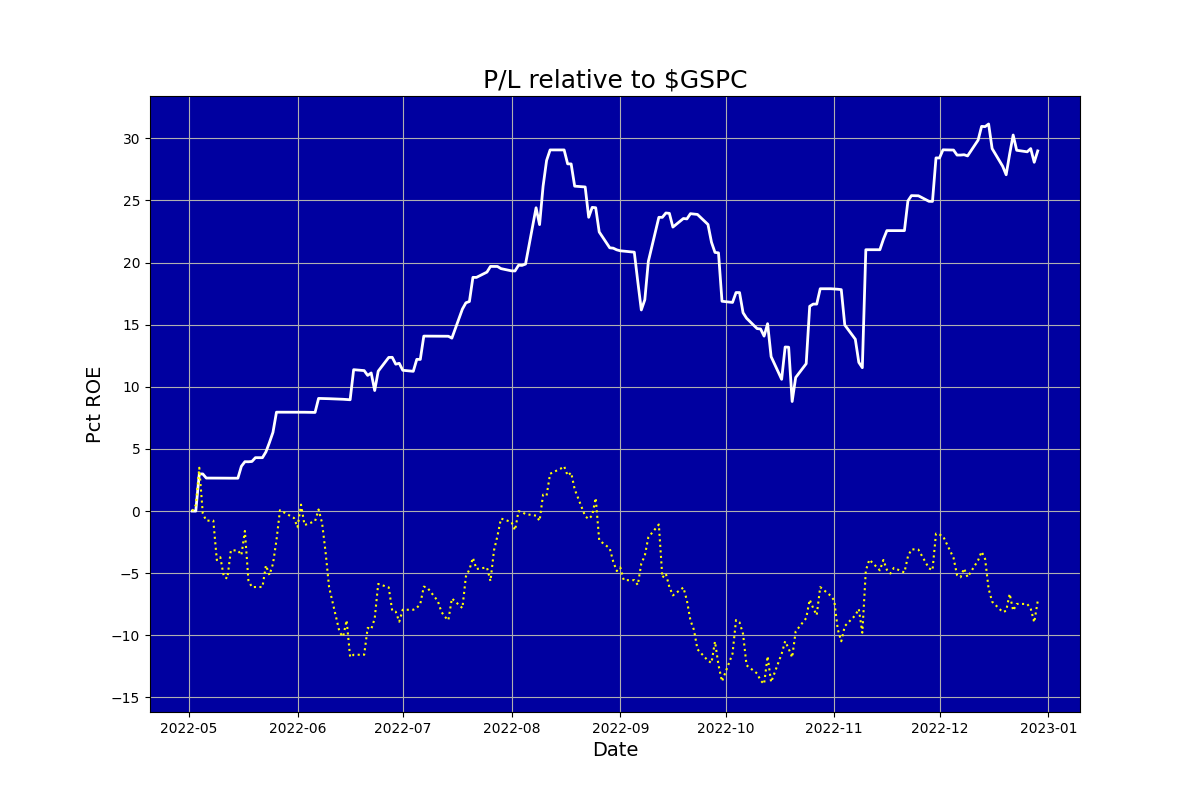
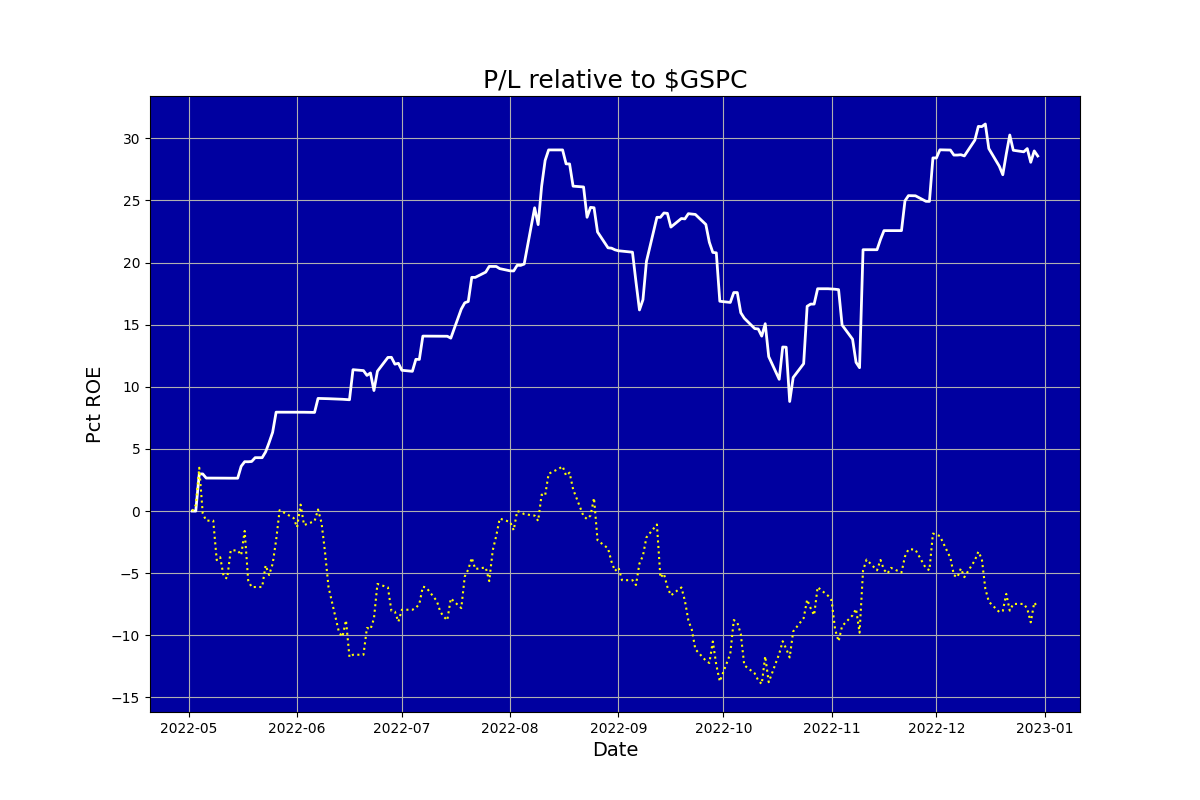
Updated

diff --git a/ig_report.html b/ig_report.html
@@ -1,1 +1,1 @@
-<html><body><center><h1>Auriel (never knowingly overbought)</h1></center><table cols=2><tr><td><img src=ig_pl.png></td><td><table cols=2><tr><td colspan=2><b><br>Snapshot</b></td></tr><tr><td>Last updated:&nbsp;&nbsp;&nbsp;</td><td>2022-12-29 15:57</td></tr><tr><td>Margin:&nbsp;&nbsp;&nbsp;</td><td>0.10</td></tr><tr><td>Cushion:&nbsp;&nbsp;&nbsp;</td><td>-3304.72</td></tr><tr><td>Last closed trade:&nbsp;&nbsp;&nbsp;</td><td>2022-12-29</td></tr><tr><td colspan=2><b><br>Positions</b></td></tr><tr><td>Mean days to new high:&nbsp;&nbsp;&nbsp;</td><td>12.11</td></tr><tr><td colspan=2><b><br>Trades</b></td></tr><tr><td>Traded days:&nbsp;&nbsp;&nbsp;</td><td>176</td></tr><tr><td>Profitable days pct:&nbsp;&nbsp;&nbsp;</td><td>34.66</td></tr><tr><td>Days beat S&P pct:&nbsp;&nbsp;&nbsp;</td><td>58.33</td></tr><tr><td>Profitable months pct:&nbsp;&nbsp;&nbsp;</td><td>87.50</td></tr><tr><td colspan=2><b><br>Performance</b></td></tr><tr><td>Pct median monthly ROE:&nbsp;&nbsp;&nbsp;</td><td>2.53</td></tr><tr><td>Pct annualised ROE:&nbsp;&nbsp;&nbsp;</td><td>38.04</td></tr><tr><td colspan=2><b><br>Risk</b></td></tr><tr><td>Volatility pct:&nbsp;&nbsp;&nbsp;</td><td>19.52</td></tr><tr><td>Benchmark volatility pct:&nbsp;&nbsp;&nbsp;</td><td>25.10</td></tr><tr><td>Sharpe ratio (RFR 5.0%):&nbsp;&nbsp;&nbsp;</td><td>1.79</td></tr><tr><td>Sortino ratio (RFR 5.0%):&nbsp;&nbsp;&nbsp;</td><td>2.94</td></tr><tr><td>Calmar ratio:&nbsp;&nbsp;&nbsp;</td><td>1.88</td></tr><tr><td>Worst drawdown pct:&nbsp;&nbsp;&nbsp;</td><td>-0.20</td></tr><tr><td>Recovery days from worst drawdown:&nbsp;&nbsp;&nbsp;</td><td>31.00</td></tr><tr><td>Beat benchmark +ve periods pct:&nbsp;&nbsp;&nbsp;</td><td>80.83</td></tr><tr><td>Beat benchmark -ve periods pct:&nbsp;&nbsp;&nbsp;</td><td>89.39</td></tr><tr><td>Correlation with benchmark:&nbsp;&nbsp;&nbsp;</td><td>0.41</td></tr></table></td></tr></table></body></html>
+<html><body><center><h1>Auriel (never knowingly overbought)</h1></center><table cols=2><tr><td><img src=ig_pl.png></td><td><table cols=2><tr><td colspan=2><b><br>Snapshot</b></td></tr><tr><td>Last updated:&nbsp;&nbsp;&nbsp;</td><td>2022-12-30 15:56</td></tr><tr><td>Margin:&nbsp;&nbsp;&nbsp;</td><td>0.06</td></tr><tr><td>Cushion:&nbsp;&nbsp;&nbsp;</td><td>-3385.87</td></tr><tr><td>Last closed trade:&nbsp;&nbsp;&nbsp;</td><td>2022-12-30</td></tr><tr><td colspan=2><b><br>Positions</b></td></tr><tr><td>Mean days to new high:&nbsp;&nbsp;&nbsp;</td><td>12.07</td></tr><tr><td colspan=2><b><br>Trades</b></td></tr><tr><td>Traded days:&nbsp;&nbsp;&nbsp;</td><td>177</td></tr><tr><td>Profitable days pct:&nbsp;&nbsp;&nbsp;</td><td>34.46</td></tr><tr><td>Days beat S&P pct:&nbsp;&nbsp;&nbsp;</td><td>58.58</td></tr><tr><td>Profitable months pct:&nbsp;&nbsp;&nbsp;</td><td>87.50</td></tr><tr><td colspan=2><b><br>Performance</b></td></tr><tr><td>Pct median monthly ROE:&nbsp;&nbsp;&nbsp;</td><td>2.53</td></tr><tr><td>Pct annualised ROE:&nbsp;&nbsp;&nbsp;</td><td>37.37</td></tr><tr><td colspan=2><b><br>Risk</b></td></tr><tr><td>Volatility pct:&nbsp;&nbsp;&nbsp;</td><td>19.47</td></tr><tr><td>Benchmark volatility pct:&nbsp;&nbsp;&nbsp;</td><td>24.96</td></tr><tr><td>Sharpe ratio (RFR 5.0%):&nbsp;&nbsp;&nbsp;</td><td>1.76</td></tr><tr><td>Sortino ratio (RFR 5.0%):&nbsp;&nbsp;&nbsp;</td><td>2.90</td></tr><tr><td>Calmar ratio:&nbsp;&nbsp;&nbsp;</td><td>1.85</td></tr><tr><td>Worst drawdown pct:&nbsp;&nbsp;&nbsp;</td><td>-0.20</td></tr><tr><td>Recovery days from worst drawdown:&nbsp;&nbsp;&nbsp;</td><td>31.00</td></tr><tr><td>Beat benchmark +ve periods pct:&nbsp;&nbsp;&nbsp;</td><td>80.96</td></tr><tr><td>Beat benchmark -ve periods pct:&nbsp;&nbsp;&nbsp;</td><td>89.47</td></tr><tr><td>Correlation with benchmark:&nbsp;&nbsp;&nbsp;</td><td>0.42</td></tr></table></td></tr></table></body></html>
